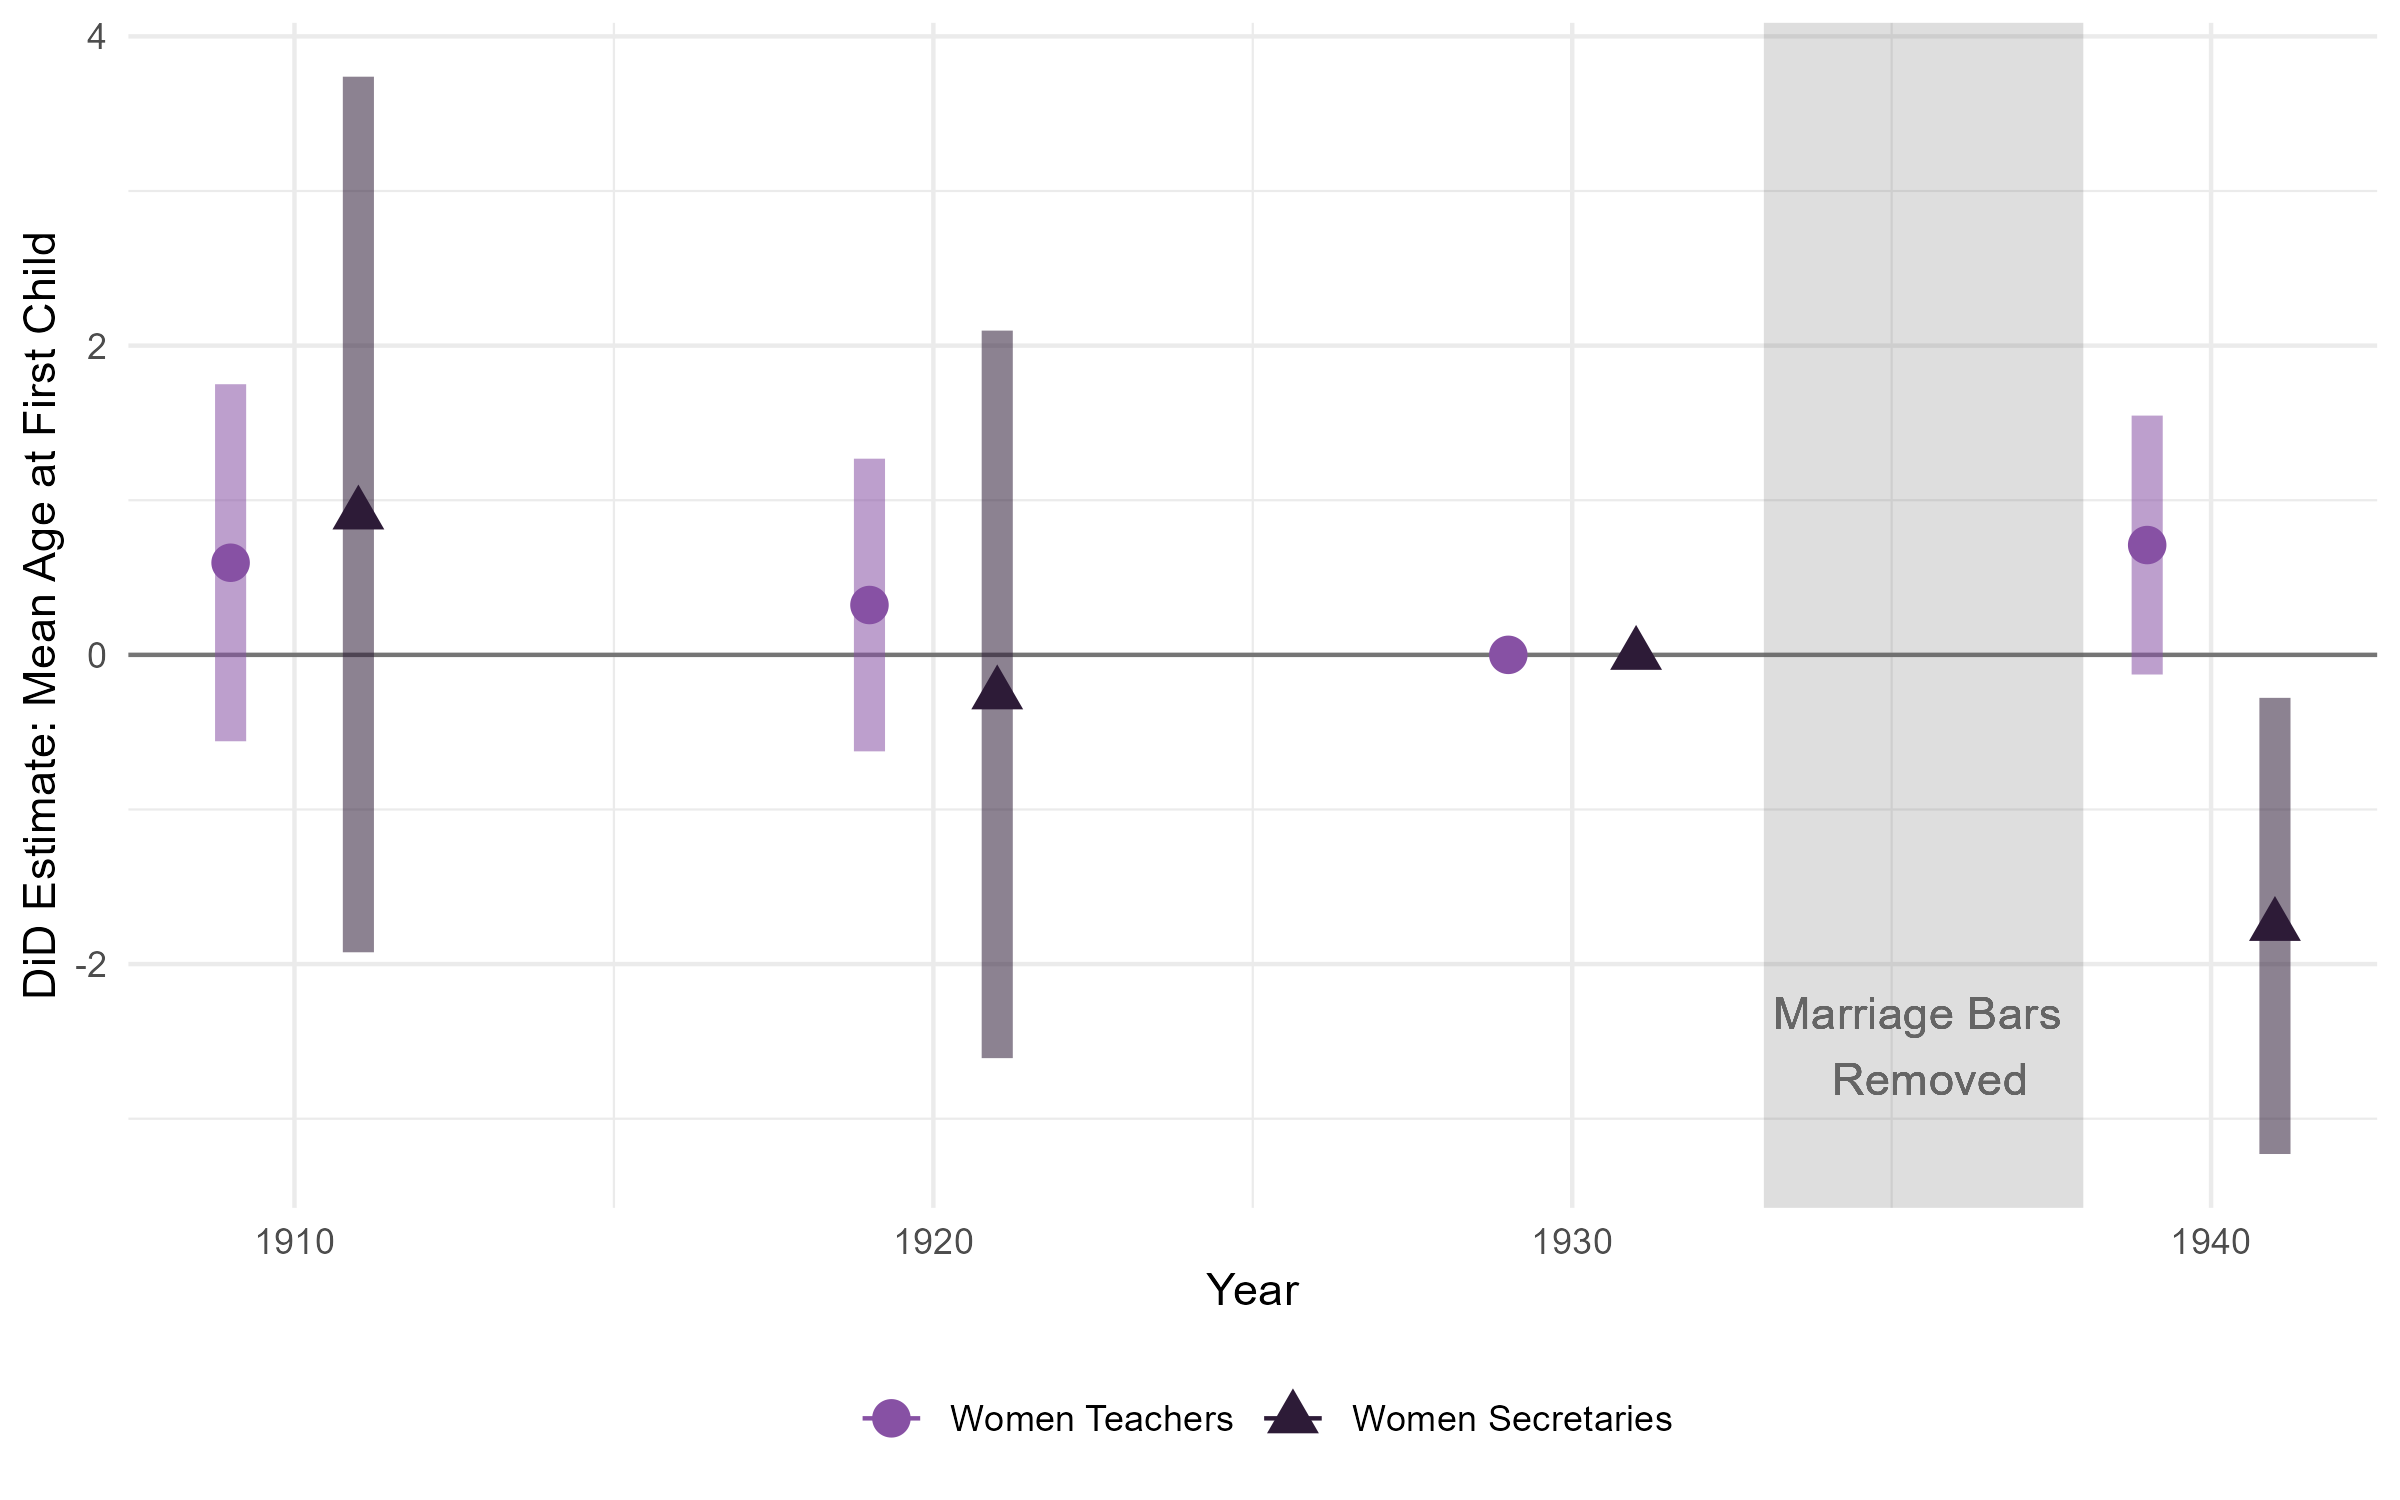
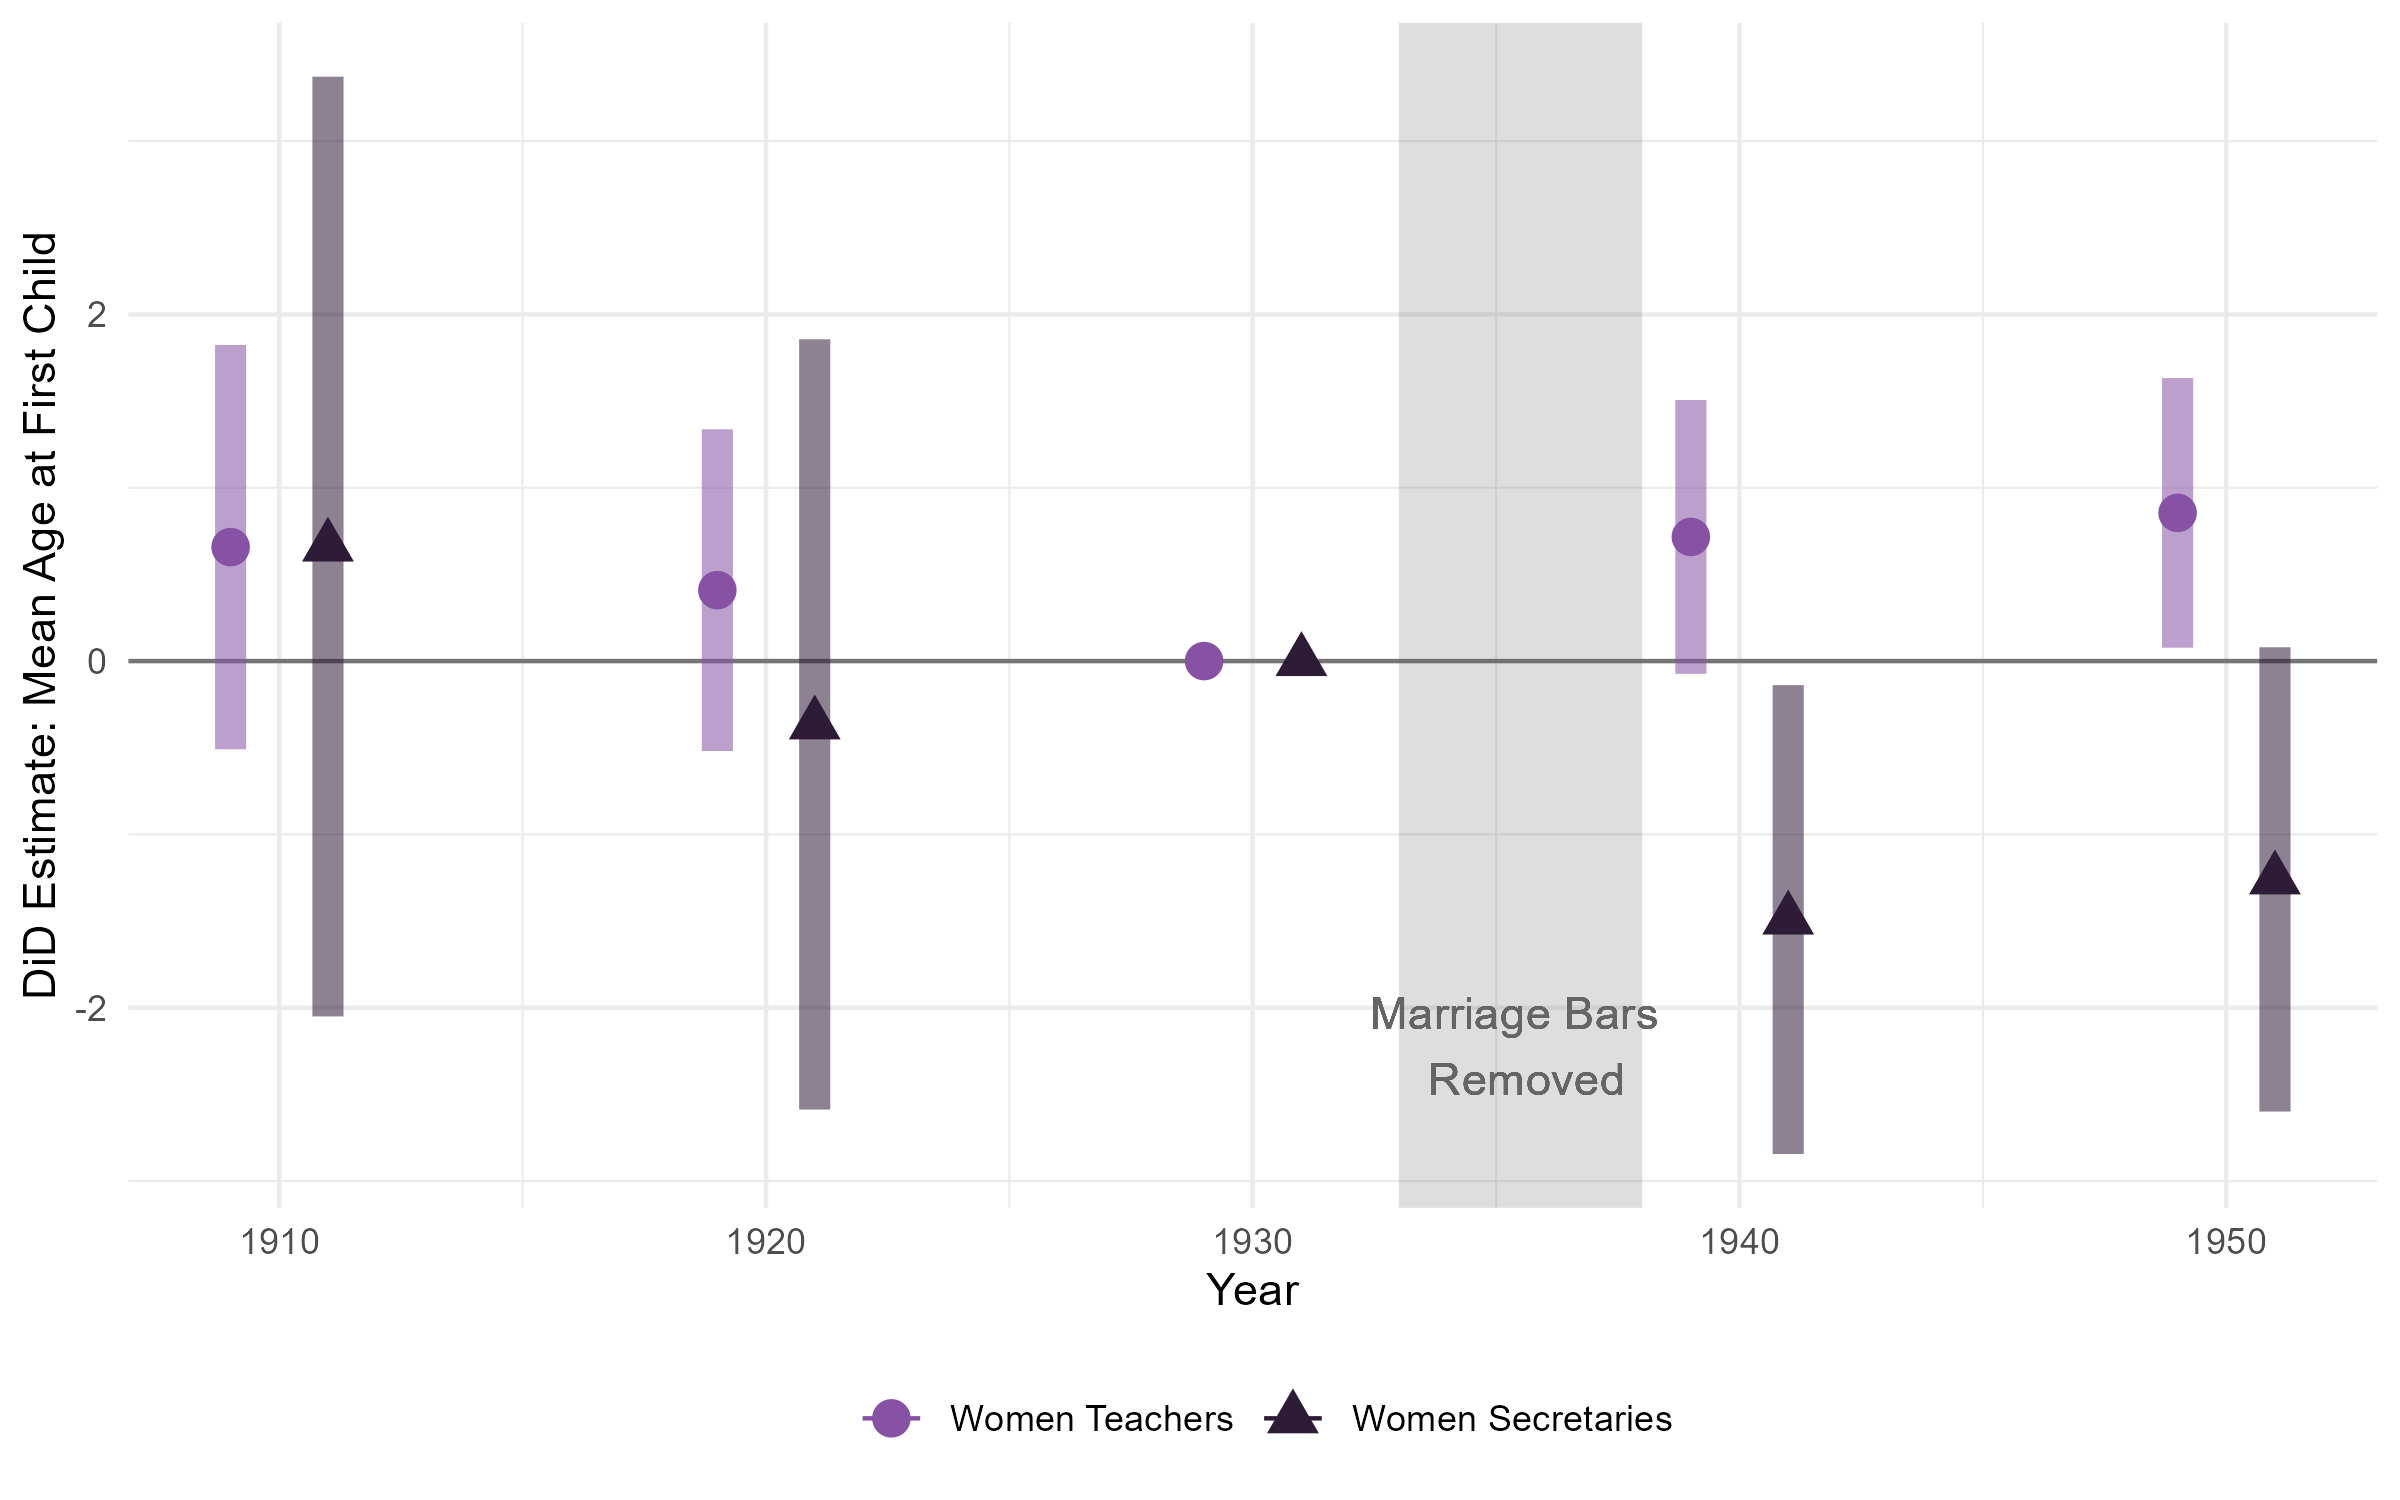
Updated code and figures/tables with 1950 full count.

diff --git a/tables/summstats.tex b/tables/summstats.tex
@@ -2,38 +2,38 @@
 \hhline{=====}
 &
 All & South & Treat0 & Treat1\\
-Population (Thousands) & 41.03446 & 27.70789 & 27.15238 & 26.47124\\
+Population (Thousands) & 41.25641 & 27.88893 & 27.30214 & 26.65849\\
 &
-(2.527) & (1.394) & (1.783) & (2.087)\\
-White School-Age Pop. (Thous.) & 9.336995 & 5.832266 & 6.090577 & 6.325502\\
+(2.541) & (1.403) & (1.791) & (2.102)\\
+White School-Age Pop. (Thous.) & 9.387786 & 5.871092 & 6.126877 & 6.368358\\
 &
-(0.535) & (0.263) & (0.347) & (0.421)\\
-Share Urban & 0.2199673 & 0.1532030 & 0.1627874 & 0.1356424\\
+(0.538) & (0.265) & (0.349) & (0.424)\\
+Share Urban & 0.2212502 & 0.1544175 & 0.1638445 & 0.1369042\\
 &
 (0.005) & (0.008) & (0.015) & (0.014)\\
-LFP of Married Women & 0.10133616 & 0.13385711 & 0.11460672 & 0.09248844\\
+LFP of Married Women & 0.10135790 & 0.13409351 & 0.11485380 & 0.09291305\\
 &
 (0.001) & (0.003) & (0.005) & (0.004)\\
-LFP of White Married Women & 0.08009537 & 0.08092958 & 0.07717082 & 0.06753441\\
+LFP of White Married Women & 0.08014614 & 0.08118647 & 0.07738165 & 0.06779610\\
 &
 (0.001) & (0.002) & (0.003) & (0.003)\\
-Num. Children* & 2.030490 & 2.257438 & 2.314348 & 2.347316\\
+Num. Children* & 2.029512 & 2.256121 & 2.313770 & 2.345371\\
 &
-(0.007) & (0.012) & (0.02) & (0.029)\\
-start panel here -- Teachers/Students & 30.70860 & 38.53096 & 36.30590 & 44.42942\\
+(0.007) & (0.013) & (0.02) & (0.029)\\
+start panel here -- Teachers/Students & 30.72109 & 38.52828 & 36.37310 & 44.39159\\
 &
-(0.204) & (0.414) & (0.599) & (0.942)\\
-Share Men & 0.1973450 & 0.1941138 & 0.2077634 & 0.2167109\\
+(0.204) & (0.415) & (0.6) & (0.943)\\
+Share Men & 0.1974399 & 0.1942015 & 0.2080979 & 0.2158630\\
 &
 (0.002) & (0.003) & (0.006) & (0.007)\\
-Share Single Women & 0.6483147 & 0.6405702 & 0.6422326 & 0.6273772\\
+Share Single Women & 0.6484210 & 0.6404770 & 0.6414652 & 0.6278785\\
 &
 (0.002) & (0.004) & (0.007) & (0.007)\\
-Share Married Women & 0.1543403 & 0.1653160 & 0.1500039 & 0.1559120\\
+Share Married Women & 0.1541391 & 0.1653215 & 0.1504369 & 0.1562585\\
 &
 (0.001) & (0.002) & (0.004) & (0.004)\\
 Obs.
 &
-2932 & 890 & 310 & 217\\
+2915 & 883 & 308 & 215\\
 \hhline{-----}
 \end{tabular}

diff --git a/tables/shareregs.tex b/tables/shareregs.tex
@@ -1,6 +1,6 @@
 
 % Table created by stargazer v.5.2.3 by Marek Hlavac, Social Policy Institute. E-mail: marek.hlavac at gmail.com
-% Date and time: Mon, Feb 05, 2024 - 11:42:16 AM
+% Date and time: Tue, Feb 06, 2024 - 2:22:19 PM
 \begin{tabular}{@{\extracolsep{5pt}}lcccccc} 
 \\[-1.8ex]\hline 
 \hline \\[-1.8ex] 
@@ -9,13 +9,16 @@
  & \# Teachers & Students/Teacher & \% Teach Mar. Wom. & \% Teach Men & \% Teach Unmar. Wom. & \% Teach Wom. w/ Chil. \\ 
 \\[-1.8ex] & (1) & (2) & (3) & (4) & (5) & (6)\\ 
 \hline \\[-1.8ex] 
- Treated $\times$ Post-Ban ($\gamma_{1940}^{DD}$) & $-$0.182 & 0.353 & 0.040$^{***}$ & 0.002 & $-$0.042$^{***}$ & 0.019$^{***}$ \\ 
-  & (3.581) & (0.843) & (0.007) & (0.006) & (0.008) & (0.006) \\ 
+ Treated $\times$ Post-Ban ($\gamma_{1940}^{DD}$) & $-$0.150 & 0.346 & 0.040$^{***}$ & 0.003 & $-$0.043$^{***}$ & 0.017$^{**}$ \\ 
+  & (3.909) & (1.553) & (0.008) & (0.006) & (0.009) & (0.007) \\ 
+  & & & & & & \\ 
+ Treated $\times$ Post-Ban ($\gamma_{1950}^{DD}$) & $-$2.990 & 6.982$^{***}$ & 0.006 & $-$0.008 & 0.002 & 0.014 \\ 
+  & (4.426) & (2.255) & (0.008) & (0.007) & (0.010) & (0.009) \\ 
   & & & & & & \\ 
 \hline \\[-1.8ex] 
-Dep. Var. 1930 Treated Mean & 155.1 & 44.43 & 0.1559 & 0.2167 & 0.6274 & 0.1033 \\ 
-Observations & 1,054 & 1,054 & 1,054 & 1,054 & 1,054 & 1,054 \\ 
-Adjusted R$^{2}$ & 0.977 & 0.736 & 0.556 & 0.823 & 0.804 & 0.573 \\ 
+Dep. Var. 1930 Treated Mean & 156.2 & 44.39 & 0.1563 & 0.2159 & 0.6279 & 0.1037 \\ 
+Observations & 1,569 & 1,569 & 1,569 & 1,569 & 1,569 & 1,569 \\ 
+Adjusted R$^{2}$ & 0.966 & 0.464 & 0.787 & 0.731 & 0.824 & 0.742 \\ 
 \hline 
 \hline \\[-1.8ex] 
 \end{tabular} 

diff --git a/tables/outregs_spouse.tex b/tables/outregs_spouse.tex
@@ -1,6 +1,6 @@
 
 % Table created by stargazer v.5.2.3 by Marek Hlavac, Social Policy Institute. E-mail: marek.hlavac at gmail.com
-% Date and time: Mon, Feb 05, 2024 - 11:43:27 AM
+% Date and time: Tue, Feb 06, 2024 - 2:28:04 PM
 \begin{tabular}{@{\extracolsep{5pt}}lccc} 
 \\[-1.8ex]\hline 
 \hline \\[-1.8ex] 
@@ -9,13 +9,16 @@
  & Avg. Spouse OCCSCORE of Mar. Wom. Teachers & Avg. Spouse OCCSCORE of Mar. Men Teachers & Share Mar. Men Teachers w/ Teacher Spouse \\ 
 \\[-1.8ex] & (1) & (2) & (3)\\ 
 \hline \\[-1.8ex] 
- Treated $\times$ Post-Ban ($\gamma_{1940}^{DD}$) & 0.302 & 1.687$^{***}$ & 0.040$^{***}$ \\ 
-  & (0.459) & (0.477) & (0.009) \\ 
+ Treated $\times$ Post-Ban ($\gamma_{1940}^{DD}$) & 0.337 & 1.726$^{***}$ & 0.040$^{***}$ \\ 
+  & (0.451) & (0.486) & (0.010) \\ 
+  & & & \\ 
+ Treated $\times$ Post-Ban ($\gamma_{1940}^{DD}$) & $-$0.683 & 0.508 & 0.025$^{**}$ \\ 
+  & (0.462) & (0.515) & (0.012) \\ 
   & & & \\ 
 \hline \\[-1.8ex] 
-Dep. Var. 1930 Mean & 24.48 & 6.165 & 0.1063 \\ 
-Observations & 1,043 & 1,046 & 1,053 \\ 
-Adjusted R$^{2}$ & 0.403 & 0.163 & 0.203 \\ 
+Dep. Var. 1930 Mean & 24.48 & 6.181 & 0.1064 \\ 
+Observations & 1,559 & 1,560 & 1,568 \\ 
+Adjusted R$^{2}$ & 0.355 & 0.171 & 0.175 \\ 
 \hline 
 \hline \\[-1.8ex] 
 \end{tabular} 

diff --git a/tables/linkregs_mwnt.tex b/tables/linkregs_mwnt.tex
@@ -1,6 +1,6 @@
 
 % Table created by stargazer v.5.2.3 by Marek Hlavac, Social Policy Institute. E-mail: marek.hlavac at gmail.com
-% Date and time: Mon, Feb 05, 2024 - 11:43:13 AM
+% Date and time: Tue, Feb 06, 2024 - 2:23:35 PM
 \begin{tabular}{@{\extracolsep{5pt}}lcccc} 
 \\[-1.8ex]\hline 
 \hline \\[-1.8ex] 

diff --git a/tables/linkregs_swnt.tex b/tables/linkregs_swnt.tex
@@ -1,6 +1,6 @@
 
 % Table created by stargazer v.5.2.3 by Marek Hlavac, Social Policy Institute. E-mail: marek.hlavac at gmail.com
-% Date and time: Mon, Feb 05, 2024 - 11:43:11 AM
+% Date and time: Tue, Feb 06, 2024 - 2:23:32 PM
 \begin{tabular}{@{\extracolsep{5pt}}lcccc} 
 \\[-1.8ex]\hline 
 \hline \\[-1.8ex] 

diff --git a/tables/linkregs_swt.tex b/tables/linkregs_swt.tex
@@ -1,6 +1,6 @@
 
 % Table created by stargazer v.5.2.3 by Marek Hlavac, Social Policy Institute. E-mail: marek.hlavac at gmail.com
-% Date and time: Mon, Feb 05, 2024 - 11:43:09 AM
+% Date and time: Tue, Feb 06, 2024 - 2:23:28 PM
 \begin{tabular}{@{\extracolsep{5pt}}lcccc} 
 \\[-1.8ex]\hline 
 \hline \\[-1.8ex] 
